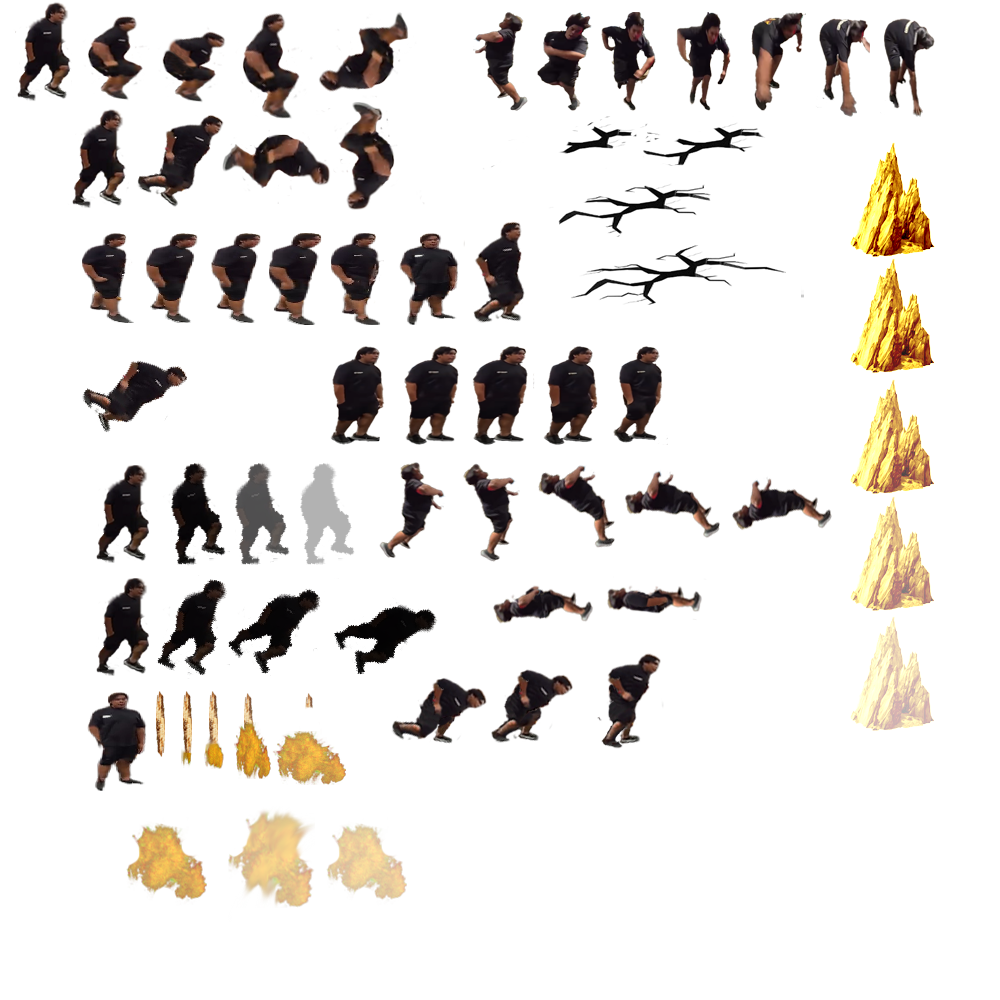
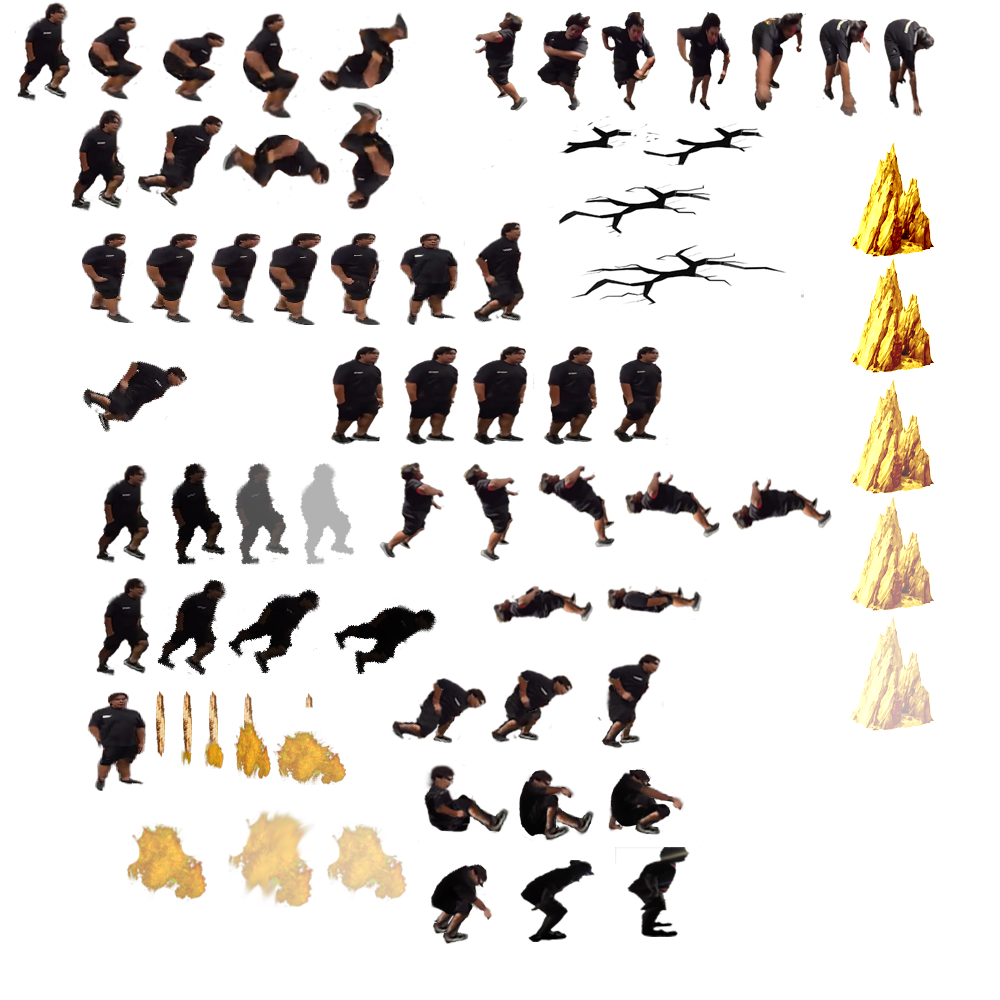
fix getup golem animation nov 13 2025

Changed region(s): [[0.403, 0.744, 0.682, 0.961], [0.434, 0.868, 0.496, 0.961], [0.062, 0.124, 0.124, 0.217]]

diff --git a/src/entities/fighters/Golem.js b/src/entities/fighters/Golem.js
@@ -164,6 +164,10 @@ export class Golem extends Fighter {
                 ['getUp-2', [[[491, 670, 81, 72], [40,70]], PushBox.IDLE, HurtBox.NULL]],
                  ['getUp-3', [[[601, 653, 59, 95], [29,93]], PushBox.IDLE, HurtBox.NULL]],
 
+                ['getUp2-1', [[[519, 770, 73, 69], [36,67]], PushBox.IDLE, HurtBox.NULL]],
+                ['getUp2-2', [[[607, 769, 77, 65], [38,63]], PushBox.IDLE, HurtBox.NULL]],
+                ['getUp2-3', [[[431, 863, 61, 80], [30,78]], PushBox.IDLE, HurtBox.NULL]],
+
              //Special 1 Death Impact
              ['special1-1', [[[473, 12, 55, 99], [28,97]], PushBox.NULL, HurtBox.NULL]],
              ['special1-2', [[[537, 12, 55, 99], [28,97]], PushBox.NULL, HurtBox.NULL]],
@@ -325,8 +329,8 @@ export class Golem extends Fighter {
                             ['death-7', FrameDelay.TRANSITION],
                         ],
                          [FighterState.GETUP]:[
-                            ['death-7', 300], ['getUp-1', 120], ['getUp-2', 100], ['getUp-3', 100],['forwards-5',85],
-                            ['forwards-5', FrameDelay.TRANSITION],
+                            ['death-7', 300], ['getUp2-1', 120], ['getUp2-2', 120], ['getUp2-3', 100],['getUp-3', 100],
+                            ['getUp-3', FrameDelay.TRANSITION],
                         ],
           
 

diff --git a/src/StreetFighterGame.js b/src/StreetFighterGame.js
@@ -11,7 +11,7 @@ import { PrePostMatch } from './scenes/PrePostMatch.js';
 
 const selectedCharacters = [
     { 
-        name: "Malupiton", 
+        name: "Golem", 
         namePos: 5,
         sayings: 'Sabi ko naman sayo burger ka saken',
         color: "gray", 
@@ -19,7 +19,7 @@ const selectedCharacters = [
         imageBig: 'malupitonBig' 
     },
     { 
-        name: "Golem", 
+        name: "Malupiton", 
         color: "gray", 
         namePos: 5,
         sayings: 'Sabi ko naman sayo burger ka saken',

diff --git a/src/entities/fighters/special/Fireball.js b/src/entities/fighters/special/Fireball.js
@@ -48,7 +48,7 @@ export class Fireball {
   const [fighter, strength] = args;
   this.canDealDamage = true;
   this.fryingPanSound = document.querySelector('audio#sound-frying-pan-hit');
-  this.fryingPanSound.volume = 0.7;
+  this.fryingPanSound.volume = 0.5;
   this.fighter = fighter;
   this.entityList = entityList;
   this.velocity = fireballVelocity[strength] || 300; // Default speed

diff --git a/src/entities/fighters/Malupiton.js b/src/entities/fighters/Malupiton.js
@@ -192,6 +192,8 @@ export class Malupiton extends Fighter {
              ['getUp-1', [[[11, 955, 53, 55], [27,53]], PushBox.IDLE, HurtBox.NULL]],
              ['getUp-2', [[[82, 959, 63, 50], [31,48]], PushBox.IDLE, HurtBox.NULL]],
              ['getUp-3', [[[160, 959, 60, 59], [30,57]], PushBox.IDLE, HurtBox.NULL]],
+
+            
         ]);
 
                   

diff --git a/src/scenes/Battlescene.js b/src/scenes/Battlescene.js
@@ -273,8 +273,8 @@ handleFlash() {
         }
     // Let AI control fighter 1 (index 1)
     if(this.statsBar.enemyStart === true){
-      this.enemyAI.update(time);
-         this.enemyAI2.update(time);
+    //  this.enemyAI.update(time);
+        // this.enemyAI2.update(time);
     }
    
 

diff --git a/src/entities/fighters/special/BlockRock.js b/src/entities/fighters/special/BlockRock.js
@@ -75,7 +75,7 @@ export class BlockRock {
         const baseY = this.fighter?.position?.y ?? 0;
 
         this.position = {
-            x: baseX + 20*(this.direction),
+            x: baseX + 25*(this.direction),
             y: baseY - 30,
         };
 
